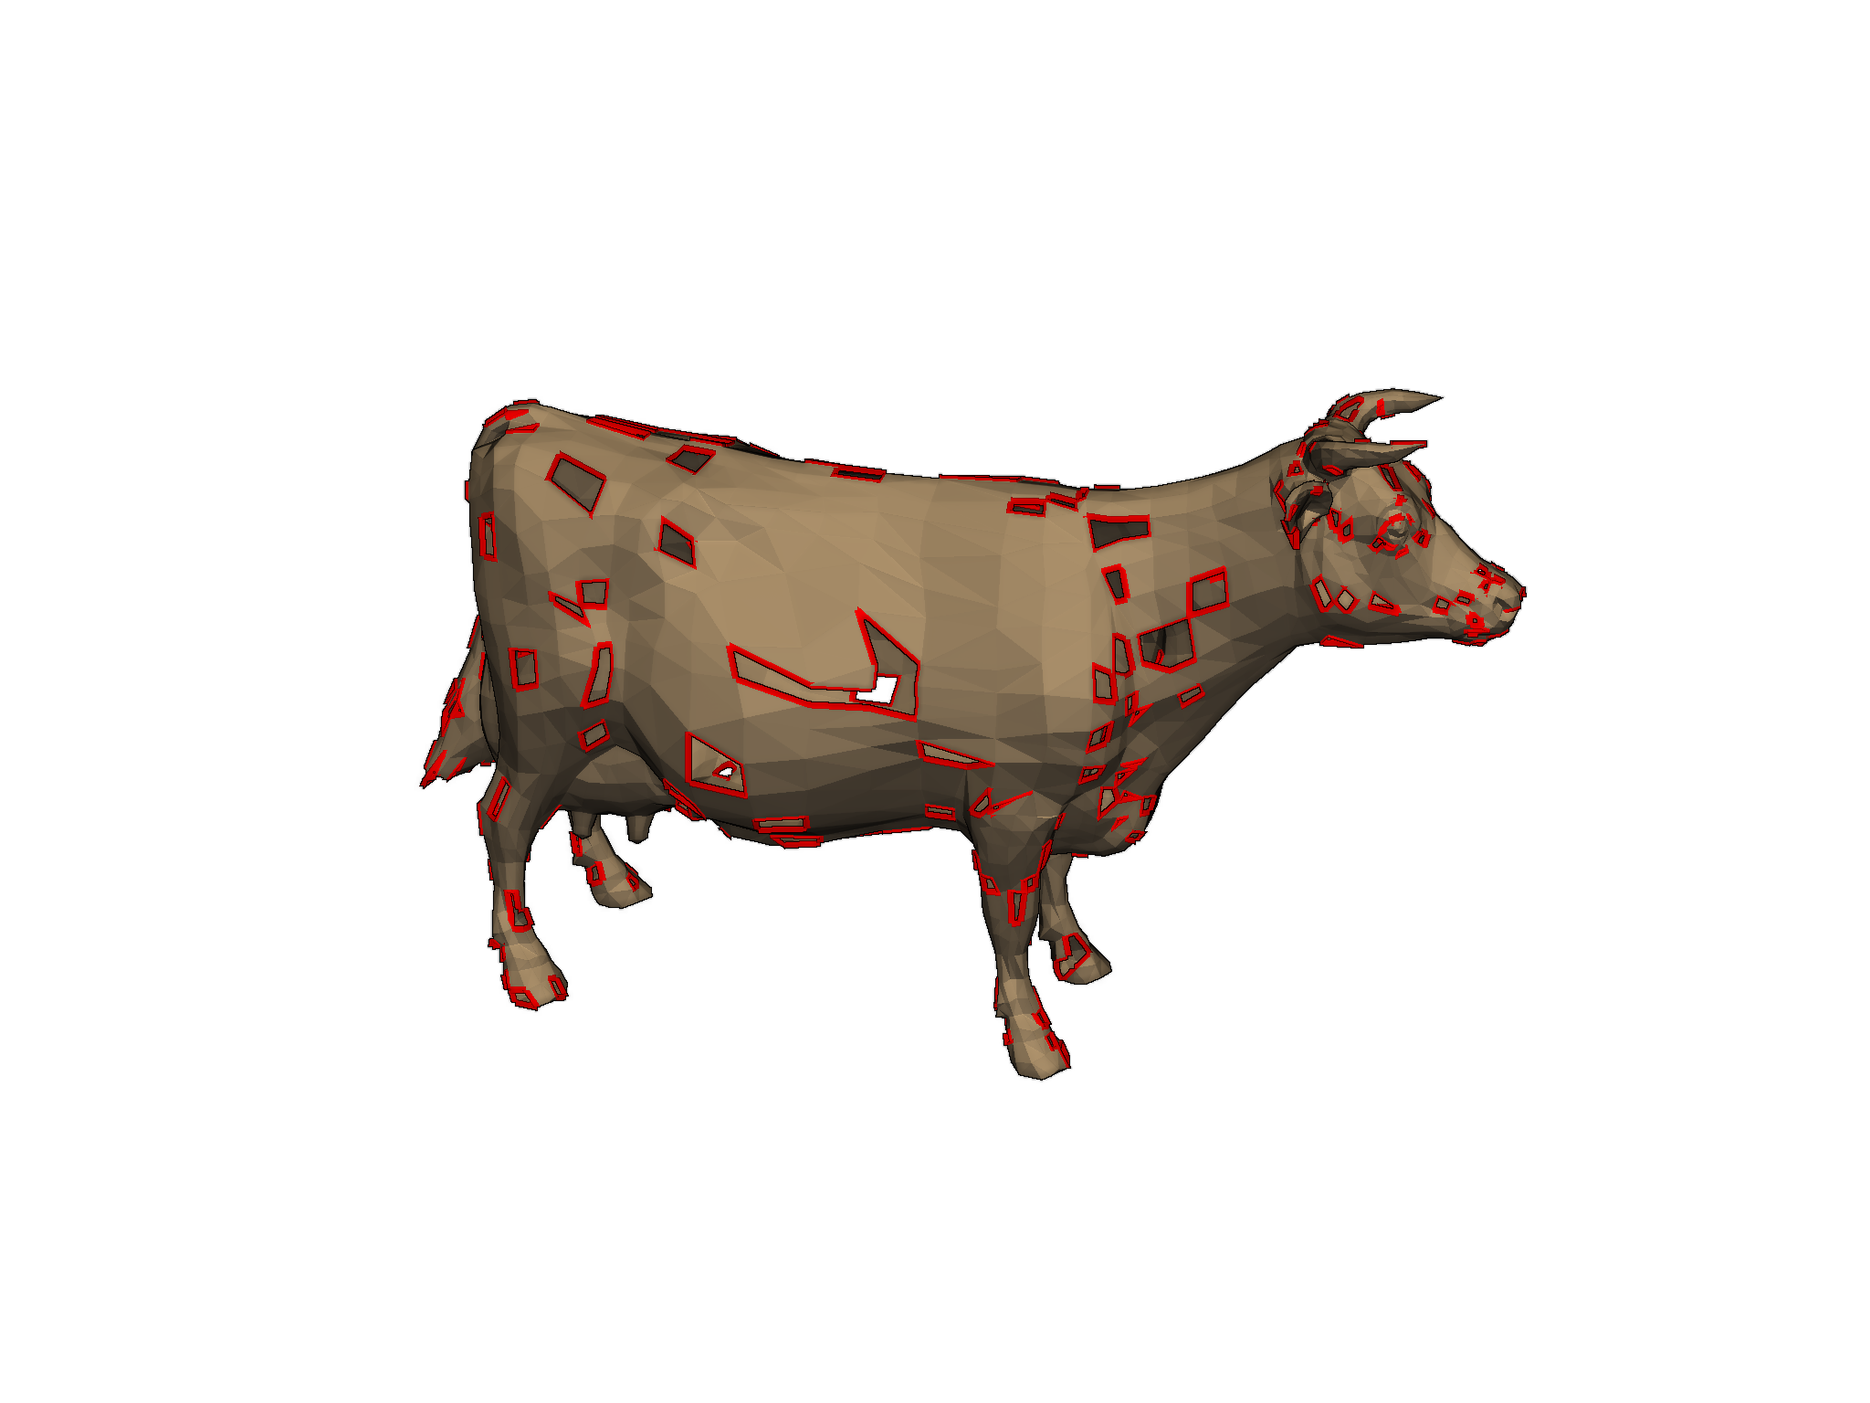
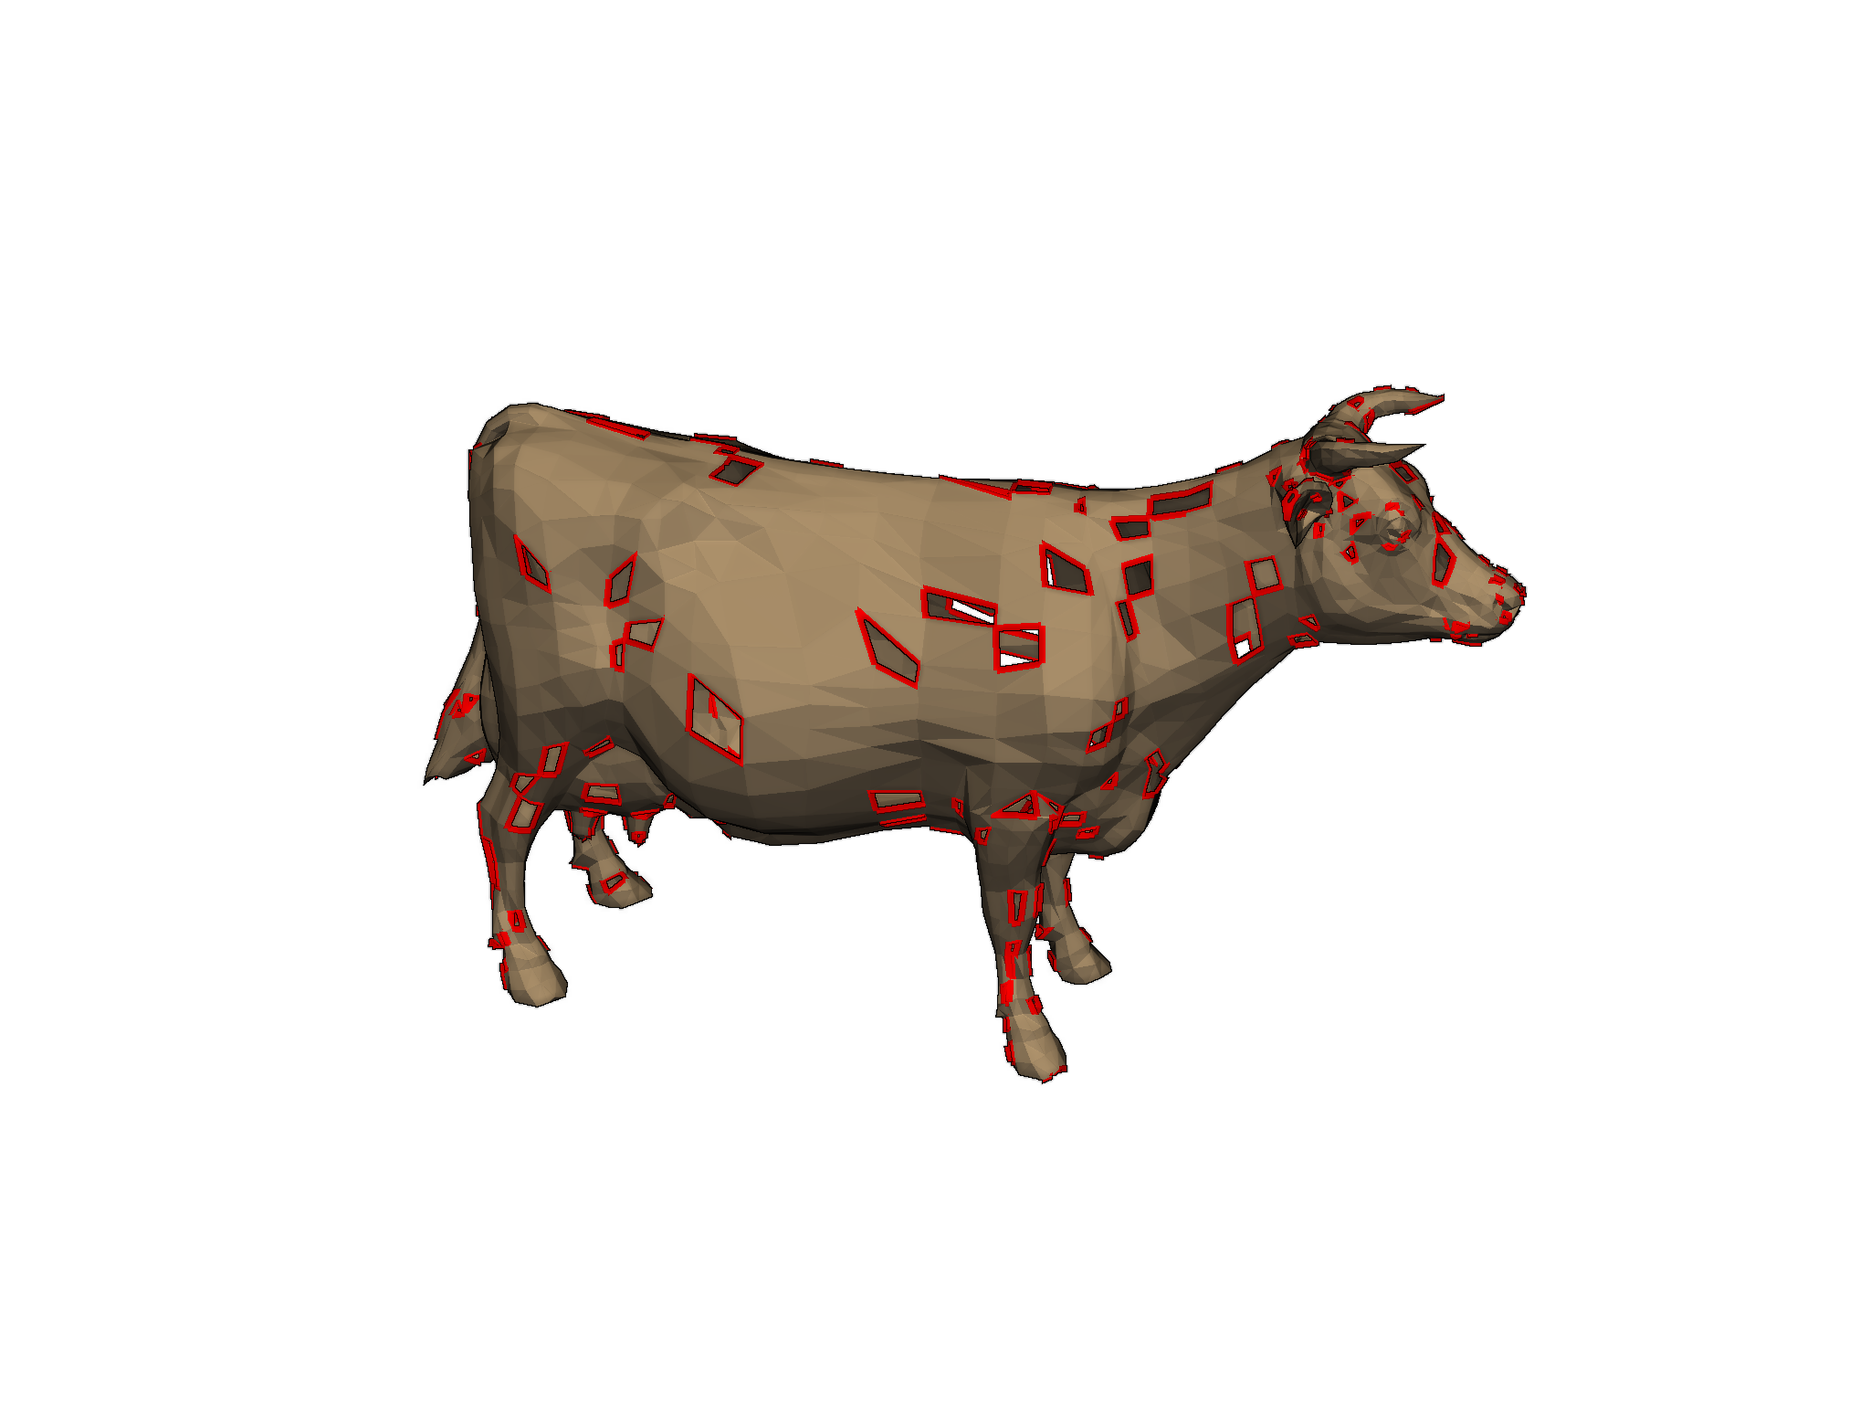
Update docs after building Travis build 65 of pyvista/pymeshfix
The docs were built from the branch 'master' against the commit
efa9f30940d9cfef207f6eea6435ef51c3168526.

The Travis build that generated this commit is at
https://travis-ci.org/pyvista/pymeshfix/jobs/573499576.

The doctr command that was run is

    /home/travis/virtualenv/python3.7.1/bin/doctr deploy --built-docs ./docs/_build/html/ .

diff --git a/searchindex.js b/searchindex.js
@@ -1,1 +1,1 @@
-Search.setIndex({docnames:["api","examples/bunny","examples/cow","examples/index","examples/sg_execution_times","examples/torso","index"],envversion:{"sphinx.domains.c":1,"sphinx.domains.changeset":1,"sphinx.domains.cpp":1,"sphinx.domains.javascript":1,"sphinx.domains.math":2,"sphinx.domains.python":1,"sphinx.domains.rst":1,"sphinx.domains.std":1,sphinx:56},filenames:["api.rst","examples/bunny.rst","examples/cow.rst","examples/index.rst","examples/sg_execution_times.rst","examples/torso.rst","index.rst"],objects:{"pymeshfix.MeshFix":{extract_holes:[0,1,1,""],load_arrays:[0,1,1,""],mesh:[0,2,1,""],plot:[0,1,1,""],repair:[0,1,1,""],save:[0,1,1,""],write:[0,1,1,""]},pymeshfix:{MeshFix:[0,0,1,""],_meshfix:[0,3,0,"-"],meshfix:[0,3,0,"-"]}},objnames:{"0":["py","class","Python class"],"1":["py","method","Python method"],"2":["py","attribute","Python attribute"],"3":["py","module","Python module"]},objtypes:{"0":"py:class","1":"py:method","2":"py:attribute","3":"py:module"},terms:{"083e":5,"0x7ff89ed8eca8":[2,5],"0x7ff89f66b228":2,"320e":5,"442e":5,"446e":2,"624e":5,"637e":2,"680e":5,"696e":2,"701e":2,"720e":5,"760e":2,"998e":2,"case":6,"class":0,"default":0,"float":6,"import":[1,2,5,6],"new":0,"public":6,"return":[0,6],"true":[0,1,2,5],"while":6,FOR:6,One:6,The:6,There:6,Use:2,_meshfix:6,abov:6,absolut:5,access:[0,6],add:2,add_mesh:[1,2,5],addit:0,again:6,agreement:6,all:[0,6],allow:6,along:5,altern:6,ani:6,appi:5,approach:6,arg:0,argument:0,arrai:[0,2,5,6],ascii:0,assum:6,attempt:[0,6],atten:[0,6],author:6,award:6,base:[0,6],been:6,befor:0,begin:0,bell:6,better:6,binari:0,bool:0,both:0,bound:[2,5,6],boundari:[0,6],bring:6,bunni:[3,4],cad:6,camera:[1,2],camera_posit:[1,2,5],can:[0,6],cannot:6,cast:2,cell:[2,5],charact:0,check:6,cite:6,clean:[0,6],clean_from_arrai:6,clean_from_fil:6,click:[1,2,5],clone:6,close:6,cnr:6,coars:6,code:[1,2,5],color:[1,2,5],com:6,commerci:6,commun:6,complex:5,compon:[0,2,5,6],comput:6,contain:0,contract:6,control:6,copi:6,correct:6,could:6,cow:[3,4],cpo:[1,2,5],cpos_ear:5,creat:6,cython:[0,6],data:0,debug:0,defect:6,defin:1,degener:6,degeneraci:[1,2,5],deprec:[0,2],depth:[1,2,5],design:6,detail:6,digit:6,directli:6,disabl:0,disk:0,distribut:6,doi:6,download:[1,2,5],download_bunni:1,download_cow:2,download_torso:5,drive:6,dual:6,each:0,ear:5,eas:6,either:[0,6],element:6,emphas:5,enabl:0,enable_eye_dome_light:[1,2,5],ensur:5,even:6,exampl:[1,2,4,5],execut:4,extens:0,extract:[0,1,5],extract_geometri:2,extract_hol:[0,1,2,5],eye_dome_light:5,face:[0,6],fail:6,fals:0,faster:0,fclean:6,file:[0,4],filenam:0,filetyp:0,fill:6,fill_small_boundari:6,filter:5,fit:6,fix:[1,2,5],flaw:6,follow:[0,6],format:6,foundat:6,free:6,from:[0,1,2,5,6],ftype:0,full:[1,2,5],galleri:[1,2,3,5],gener:[1,2,3,5,6],git:6,github:6,gnu:6,gpl:6,hard:6,has:6,have:6,help:[1,2,5],here:[1,2,5,6],hole:[0,1,2,5,6],holei:[3,4],holy_cow:2,hope:6,how:6,http:6,idea:6,imati:6,impli:6,indic:0,infer:0,infil:6,inner_loop:6,inplac:0,input:6,instead:2,int32:6,interfac:0,intersect:[1,2,5,6],invert:2,ipynb:[1,2,5],isol:0,join:[0,6],join_closest_compon:6,joincomp:0,jupyt:[1,2,5],keyword:0,kwarg:0,largest:0,later:6,left:6,leverag:6,librari:6,licens:6,lightweight:6,line:0,line_width:[1,2,5],list:6,load:[0,6],load_arrai:[0,6],loadfil:6,locat:2,mai:[0,6],main:6,marco:[0,6],max_it:6,memori:6,merchant:6,mesh:[0,1,2,5,6],meshfix:[0,1,2,5,6],method:0,might:6,minut:[1,2,5],model:6,modifi:6,modul:[0,6],more:6,much:0,must:6,n_cell:2,nativ:6,ndarrai:0,nearbi:[0,6],necessari:6,need:5,nice:2,note:0,notebook:[1,2,5],numpi:[0,2,6],object:[0,6],occurr:6,one:0,open:0,option:[0,6],org:6,other:6,out:[1,2,5,6],outfil:6,outlin:[1,2,5],output:6,over:6,overridden:0,paper:6,paramet:0,part:[5,6],particular:6,patch:[1,2,5],percept:[1,2,5],perform:[0,6],perfrom:5,pip:6,pleas:6,plot:[0,1,2,5,6],plotter:[1,2,5],ply:[0,6],point:[0,2,5],polydata:[0,2,5],polygon:6,polyhedr:5,polyhedron:6,portabl:6,posit:1,present:6,print:[0,2,5,6],process:0,produc:6,program:6,proper:6,publish:6,purpos:6,pymeshfix:[0,1,2,5],pypi:6,python:[0,1,2,5,6],pytmesh:6,pyvista:[0,1,2,5,6],rand:2,random:2,raw:6,reach:6,read:6,readi:1,reason:6,redistribut:6,refer:6,region:6,remov:[0,2,5,6],remove_smallest_compon:0,render:[1,2],repair:[0,1,2,5,6],repres:6,requir:6,research:6,reserv:6,result:[2,6],return_arrai:6,right:6,root:2,run:[1,2,5,6],s00371:6,same:6,save:[0,6],save_fil:6,script:[1,2,5],second:[1,2,5],see:6,self:6,set:6,should:[0,6],show:[0,1,2,5],show_edg:5,show_hol:0,simpl:0,simpli:5,singl:6,singular:6,small:[2,5],softwar:6,solid:6,sort:6,sourc:[1,2,5,6],specif:6,specifi:0,speed:6,sphinx:[1,2,3,5],sphinx_gallery_thumbnail_numb:[1,2,5],springer:6,stl:0,str:0,string:0,subtl:5,surfac:[0,6],take:6,term:6,tessel:6,test:6,tetrahedr:0,than:0,thei:6,them:0,therefor:6,therein:6,thi:[0,5,6],three:0,threshold:2,thu:6,tight:5,time:[1,2,5],tin:6,tmesh:6,torso:[3,4],total:[1,2,4,5],tri_filt:[2,5],triangl:[0,5,6],triangul:2,triangular:0,txt:6,type:0,typic:6,unavail:6,under:6,understand:6,unless:0,unmodifi:6,updat:0,use:6,used:6,useful:6,user:6,uses:6,using:[0,6],vclean:6,verbos:[0,1,2,5],version:6,vertex:[0,6],view:6,visual:6,vtk:0,vtkinterfac:6,warn:2,warranti:6,water:5,watertight:6,where:[5,6],whistl:6,win:6,wish:6,with_vtk:6,within:6,wonder:6,work:6,wrap:0,wrapper:[0,6],write:[0,6],written:0,www:6,xyz:0,you:6,your:6},titles:["API Reference","Bunny","Holey Cow","Examples","Computation times","Torso","PyMeshFix"],titleterms:{algorithm:6,api:0,bunni:1,citat:6,complet:6,comput:4,copyright:6,cow:2,depend:6,easi:6,exampl:[3,6],holei:2,instal:6,polici:6,pymeshfix:6,refer:0,time:4,torso:5,vtk:6,without:6}})
+Search.setIndex({docnames:["api","examples/bunny","examples/cow","examples/index","examples/sg_execution_times","examples/torso","index"],envversion:{"sphinx.domains.c":1,"sphinx.domains.changeset":1,"sphinx.domains.cpp":1,"sphinx.domains.javascript":1,"sphinx.domains.math":2,"sphinx.domains.python":1,"sphinx.domains.rst":1,"sphinx.domains.std":1,sphinx:56},filenames:["api.rst","examples/bunny.rst","examples/cow.rst","examples/index.rst","examples/sg_execution_times.rst","examples/torso.rst","index.rst"],objects:{"pymeshfix.MeshFix":{extract_holes:[0,1,1,""],load_arrays:[0,1,1,""],mesh:[0,2,1,""],plot:[0,1,1,""],repair:[0,1,1,""],save:[0,1,1,""],write:[0,1,1,""]},pymeshfix:{MeshFix:[0,0,1,""],_meshfix:[0,3,0,"-"],meshfix:[0,3,0,"-"]}},objnames:{"0":["py","class","Python class"],"1":["py","method","Python method"],"2":["py","attribute","Python attribute"],"3":["py","module","Python module"]},objtypes:{"0":"py:class","1":"py:method","2":"py:attribute","3":"py:module"},terms:{"083e":5,"0x7fcc7811b228":5,"0x7fcc7811b348":2,"0x7fcc7882e5e8":2,"320e":5,"442e":5,"446e":2,"624e":5,"637e":2,"680e":5,"696e":2,"701e":2,"720e":5,"760e":2,"998e":2,"case":6,"class":0,"default":0,"float":6,"import":[1,2,5,6],"new":0,"public":6,"return":[0,6],"true":[0,1,2,5],"while":6,FOR:6,One:6,The:6,There:6,Use:2,_meshfix:6,abov:6,absolut:5,access:[0,6],add:2,add_mesh:[1,2,5],addit:0,again:6,agreement:6,all:[0,6],allow:6,along:5,altern:6,ani:6,appi:5,approach:6,arg:0,argument:0,arrai:[0,2,5,6],ascii:0,assum:6,attempt:[0,6],atten:[0,6],author:6,award:6,base:[0,6],been:6,befor:0,begin:0,bell:6,better:6,binari:0,bool:0,both:0,bound:[2,5,6],boundari:[0,6],bring:6,bunni:[3,4],cad:6,camera:[1,2],camera_posit:[1,2,5],can:[0,6],cannot:6,cast:2,cell:[2,5],charact:0,check:6,cite:6,clean:[0,6],clean_from_arrai:6,clean_from_fil:6,click:[1,2,5],clone:6,close:6,cnr:6,coars:6,code:[1,2,5],color:[1,2,5],com:6,commerci:6,commun:6,complex:5,compon:[0,2,5,6],comput:6,contain:0,contract:6,control:6,copi:6,correct:6,could:6,cow:[3,4],cpo:[1,2,5],cpos_ear:5,creat:6,cython:[0,6],data:0,debug:0,defect:6,defin:1,degener:6,degeneraci:[1,2,5],deprec:[0,2],depth:[1,2,5],design:6,detail:6,digit:6,directli:6,disabl:0,disk:0,distribut:6,doi:6,download:[1,2,5],download_bunni:1,download_cow:2,download_torso:5,drive:6,dual:6,each:0,ear:5,eas:6,either:[0,6],element:6,emphas:5,enabl:0,enable_eye_dome_light:[1,2,5],ensur:5,even:6,exampl:[1,2,4,5],execut:4,extens:0,extract:[0,1,5],extract_geometri:2,extract_hol:[0,1,2,5],eye_dome_light:5,face:[0,6],fail:6,fals:0,faster:0,fclean:6,file:[0,4],filenam:0,filetyp:0,fill:6,fill_small_boundari:6,filter:5,fit:6,fix:[1,2,5],flaw:6,follow:[0,6],format:6,foundat:6,free:6,from:[0,1,2,5,6],ftype:0,full:[1,2,5],galleri:[1,2,3,5],gener:[1,2,3,5,6],git:6,github:6,gnu:6,gpl:6,hard:6,has:6,have:6,help:[1,2,5],here:[1,2,5,6],hole:[0,1,2,5,6],holei:[3,4],holy_cow:2,hope:6,how:6,http:6,idea:6,imati:6,impli:6,indic:0,infer:0,infil:6,inner_loop:6,inplac:0,input:6,instead:2,int32:6,interfac:0,intersect:[1,2,5,6],invert:2,ipynb:[1,2,5],isol:0,join:[0,6],join_closest_compon:6,joincomp:0,jupyt:[1,2,5],keyword:0,kwarg:0,largest:0,later:6,left:6,leverag:6,librari:6,licens:6,lightweight:6,line:0,line_width:[1,2,5],list:6,load:[0,6],load_arrai:[0,6],loadfil:6,locat:2,mai:[0,6],main:6,marco:[0,6],max_it:6,memori:6,merchant:6,mesh:[0,1,2,5,6],meshfix:[0,1,2,5,6],method:0,might:6,minut:[1,2,5],model:6,modifi:6,modul:[0,6],more:6,much:0,must:6,n_cell:2,nativ:6,ndarrai:0,nearbi:[0,6],necessari:6,need:5,nice:2,note:0,notebook:[1,2,5],numpi:[0,2,6],object:[0,6],occurr:6,one:0,open:0,option:[0,6],org:6,other:6,out:[1,2,5,6],outfil:6,outlin:[1,2,5],output:6,over:6,overridden:0,paper:6,paramet:0,part:[5,6],particular:6,patch:[1,2,5],percept:[1,2,5],perform:[0,6],perfrom:5,pip:6,pleas:6,plot:[0,1,2,5,6],plotter:[1,2,5],ply:[0,6],point:[0,2,5],polydata:[0,2,5],polygon:6,polyhedr:5,polyhedron:6,portabl:6,posit:1,present:6,print:[0,2,5,6],process:0,produc:6,program:6,proper:6,publish:6,purpos:6,pymeshfix:[0,1,2,5],pypi:6,python:[0,1,2,5,6],pytmesh:6,pyvista:[0,1,2,5,6],rand:2,random:2,raw:6,reach:6,read:6,readi:1,reason:6,redistribut:6,refer:6,region:6,remov:[0,2,5,6],remove_smallest_compon:0,render:[1,2],repair:[0,1,2,5,6],repres:6,requir:6,research:6,reserv:6,result:[2,6],return_arrai:6,right:6,root:2,run:[1,2,5,6],s00371:6,same:6,save:[0,6],save_fil:6,script:[1,2,5],second:[1,2,5],see:6,self:6,set:6,should:[0,6],show:[0,1,2,5],show_edg:5,show_hol:0,simpl:0,simpli:5,singl:6,singular:6,small:[2,5],softwar:6,solid:6,sort:6,sourc:[1,2,5,6],specif:6,specifi:0,speed:6,sphinx:[1,2,3,5],sphinx_gallery_thumbnail_numb:[1,2,5],springer:6,stl:0,str:0,string:0,subtl:5,surfac:[0,6],take:6,term:6,tessel:6,test:6,tetrahedr:0,than:0,thei:6,them:0,therefor:6,therein:6,thi:[0,5,6],three:0,threshold:2,thu:6,tight:5,time:[1,2,5],tin:6,tmesh:6,torso:[3,4],total:[1,2,4,5],tri_filt:[2,5],triangl:[0,5,6],triangul:2,triangular:0,txt:6,type:0,typic:6,unavail:6,under:6,understand:6,unless:0,unmodifi:6,updat:0,use:6,used:6,useful:6,user:6,uses:6,using:[0,6],vclean:6,verbos:[0,1,2,5],version:6,vertex:[0,6],view:6,visual:6,vtk:0,vtkinterfac:6,warn:2,warranti:6,water:5,watertight:6,where:[5,6],whistl:6,win:6,wish:6,with_vtk:6,within:6,wonder:6,work:6,wrap:0,wrapper:[0,6],write:[0,6],written:0,www:6,xyz:0,you:6,your:6},titles:["API Reference","Bunny","Holey Cow","Examples","Computation times","Torso","PyMeshFix"],titleterms:{algorithm:6,api:0,bunni:1,citat:6,complet:6,comput:4,copyright:6,cow:2,depend:6,easi:6,exampl:[3,6],holei:2,instal:6,polici:6,pymeshfix:6,refer:0,time:4,torso:5,vtk:6,without:6}})

diff --git a/examples/cow.html b/examples/cow.html
@@ -224,8 +224,8 @@
 </div>
 <p class="sphx-glr-script-out">Out:</p>
 <div class="sphx-glr-script-out highlight-none notranslate"><div class="highlight"><pre><span></span>WARNING:root:DEPRECATED: ``.tri_filter`` is deprecated. Use ``.triangulate`` instead.
-PolyData (0x7ff89ed8eca8)
-  N Cells:      5226
+PolyData (0x7fcc7811b348)
+  N Cells:      5213
   N Points:     2903
   X Bounds:     -4.446e+00, 5.998e+00
   Y Bounds:     -3.637e+00, 2.760e+00
@@ -256,9 +256,9 @@ PolyData (0x7ff89ed8eca8)
 </pre></div>
 </div>
 <p class="sphx-glr-script-out">Out:</p>
-<div class="sphx-glr-script-out highlight-none notranslate"><div class="highlight"><pre><span></span>Removed 2 small components
+<div class="sphx-glr-script-out highlight-none notranslate"><div class="highlight"><pre><span></span>Removed 1 small components
 Patching holes...
-Patched 202 holes
+Patched 205 holes
 Fixing degeneracies and intersections
 </pre></div>
 </div>
@@ -268,9 +268,9 @@ Fixing degeneracies and intersections
 </pre></div>
 </div>
 <p class="sphx-glr-script-out">Out:</p>
-<div class="sphx-glr-script-out highlight-none notranslate"><div class="highlight"><pre><span></span>PolyData (0x7ff89f66b228)
-  N Cells:      5448
-  N Points:     2726
+<div class="sphx-glr-script-out highlight-none notranslate"><div class="highlight"><pre><span></span>PolyData (0x7fcc7882e5e8)
+  N Cells:      5434
+  N Points:     2719
   X Bounds:     -3.696e+00, 5.998e+00
   Y Bounds:     -3.637e+00, 2.760e+00
   Z Bounds:     -1.701e+00, 1.701e+00
@@ -281,7 +281,7 @@ Fixing degeneracies and intersections
 </pre></div>
 </div>
 <img alt="../_images/sphx_glr_cow_002.png" class="sphx-glr-single-img" src="../_images/sphx_glr_cow_002.png" />
-<p class="sphx-glr-timing"><strong>Total running time of the script:</strong> ( 0 minutes  5.456 seconds)</p>
+<p class="sphx-glr-timing"><strong>Total running time of the script:</strong> ( 0 minutes  5.385 seconds)</p>
 <div class="sphx-glr-footer class sphx-glr-footer-example docutils container" id="sphx-glr-download-examples-cow-py">
 <div class="sphx-glr-download docutils container">
 <p><a class="reference download internal" download="" href="../_downloads/700f1bf357ea69088c0a34b0aa306d26/cow.py"><code class="xref download docutils literal notranslate"><span class="pre">Download</span> <span class="pre">Python</span> <span class="pre">source</span> <span class="pre">code:</span> <span class="pre">cow.py</span></code></a></p>

diff --git a/examples/sg_execution_times.html b/examples/sg_execution_times.html
@@ -193,11 +193,11 @@
             
   <div class="section" id="computation-times">
 <span id="sphx-glr-examples-sg-execution-times"></span><h1>Computation times<a class="headerlink" href="#computation-times" title="Permalink to this headline">¶</a></h1>
-<p><strong>00:37.589</strong> total execution time for <strong>examples</strong> files:</p>
+<p><strong>00:37.136</strong> total execution time for <strong>examples</strong> files:</p>
 <ul class="simple">
-<li><p><strong>00:17.498</strong>: <a class="reference internal" href="torso.html#sphx-glr-examples-torso-py"><span class="std std-ref">Torso</span></a> (<code class="docutils literal notranslate"><span class="pre">torso.py</span></code>)</p></li>
-<li><p><strong>00:14.636</strong>: <a class="reference internal" href="bunny.html#sphx-glr-examples-bunny-py"><span class="std std-ref">Bunny</span></a> (<code class="docutils literal notranslate"><span class="pre">bunny.py</span></code>)</p></li>
-<li><p><strong>00:05.456</strong>: <a class="reference internal" href="cow.html#sphx-glr-examples-cow-py"><span class="std std-ref">Holey Cow</span></a> (<code class="docutils literal notranslate"><span class="pre">cow.py</span></code>)</p></li>
+<li><p><strong>00:17.644</strong>: <a class="reference internal" href="torso.html#sphx-glr-examples-torso-py"><span class="std std-ref">Torso</span></a> (<code class="docutils literal notranslate"><span class="pre">torso.py</span></code>)</p></li>
+<li><p><strong>00:14.107</strong>: <a class="reference internal" href="bunny.html#sphx-glr-examples-bunny-py"><span class="std std-ref">Bunny</span></a> (<code class="docutils literal notranslate"><span class="pre">bunny.py</span></code>)</p></li>
+<li><p><strong>00:05.385</strong>: <a class="reference internal" href="cow.html#sphx-glr-examples-cow-py"><span class="std std-ref">Holey Cow</span></a> (<code class="docutils literal notranslate"><span class="pre">cow.py</span></code>)</p></li>
 </ul>
 </div>
 

diff --git a/examples/torso.html b/examples/torso.html
@@ -219,7 +219,7 @@ parts of the mesh</p>
 </pre></div>
 </div>
 <p class="sphx-glr-script-out">Out:</p>
-<div class="sphx-glr-script-out highlight-none notranslate"><div class="highlight"><pre><span></span>PolyData (0x7ff89ed8eca8)
+<div class="sphx-glr-script-out highlight-none notranslate"><div class="highlight"><pre><span></span>PolyData (0x7fcc7811b228)
   N Cells:      12448
   N Points:     12015
   X Bounds:     -1.680e+02, 1.720e+02
@@ -282,7 +282,7 @@ Fixing degeneracies and intersections
 </pre></div>
 </div>
 <img alt="../_images/sphx_glr_torso_004.png" class="sphx-glr-single-img" src="../_images/sphx_glr_torso_004.png" />
-<p class="sphx-glr-timing"><strong>Total running time of the script:</strong> ( 0 minutes  17.498 seconds)</p>
+<p class="sphx-glr-timing"><strong>Total running time of the script:</strong> ( 0 minutes  17.644 seconds)</p>
 <div class="sphx-glr-footer class sphx-glr-footer-example docutils container" id="sphx-glr-download-examples-torso-py">
 <div class="sphx-glr-download docutils container">
 <p><a class="reference download internal" download="" href="../_downloads/988781b05954ec5068adbfe7a980b827/torso.py"><code class="xref download docutils literal notranslate"><span class="pre">Download</span> <span class="pre">Python</span> <span class="pre">source</span> <span class="pre">code:</span> <span class="pre">torso.py</span></code></a></p>

diff --git a/examples/bunny.html b/examples/bunny.html
@@ -255,7 +255,7 @@ Fixing degeneracies and intersections
 </pre></div>
 </div>
 <img alt="../_images/sphx_glr_bunny_003.png" class="sphx-glr-single-img" src="../_images/sphx_glr_bunny_003.png" />
-<p class="sphx-glr-timing"><strong>Total running time of the script:</strong> ( 0 minutes  14.636 seconds)</p>
+<p class="sphx-glr-timing"><strong>Total running time of the script:</strong> ( 0 minutes  14.107 seconds)</p>
 <div class="sphx-glr-footer class sphx-glr-footer-example docutils container" id="sphx-glr-download-examples-bunny-py">
 <div class="sphx-glr-download docutils container">
 <p><a class="reference download internal" download="" href="../_downloads/81a10a6450959c49a589aa8cee630836/bunny.py"><code class="xref download docutils literal notranslate"><span class="pre">Download</span> <span class="pre">Python</span> <span class="pre">source</span> <span class="pre">code:</span> <span class="pre">bunny.py</span></code></a></p>
